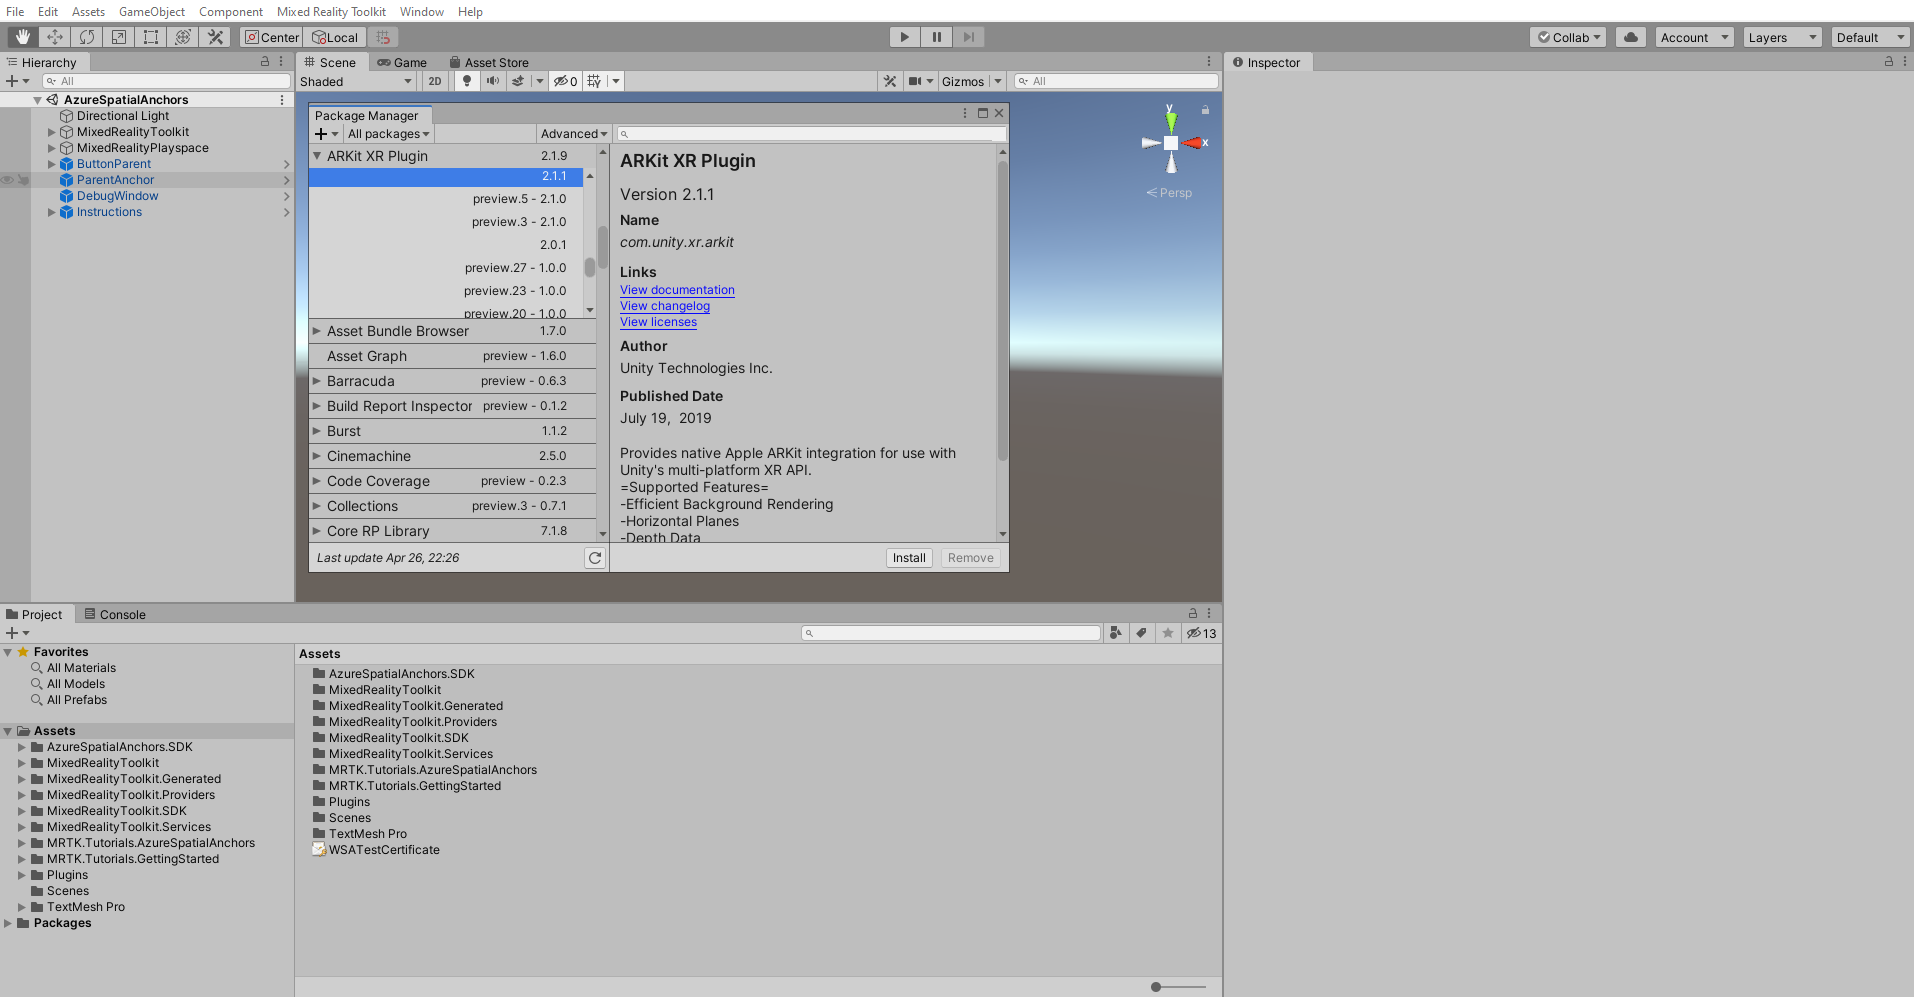
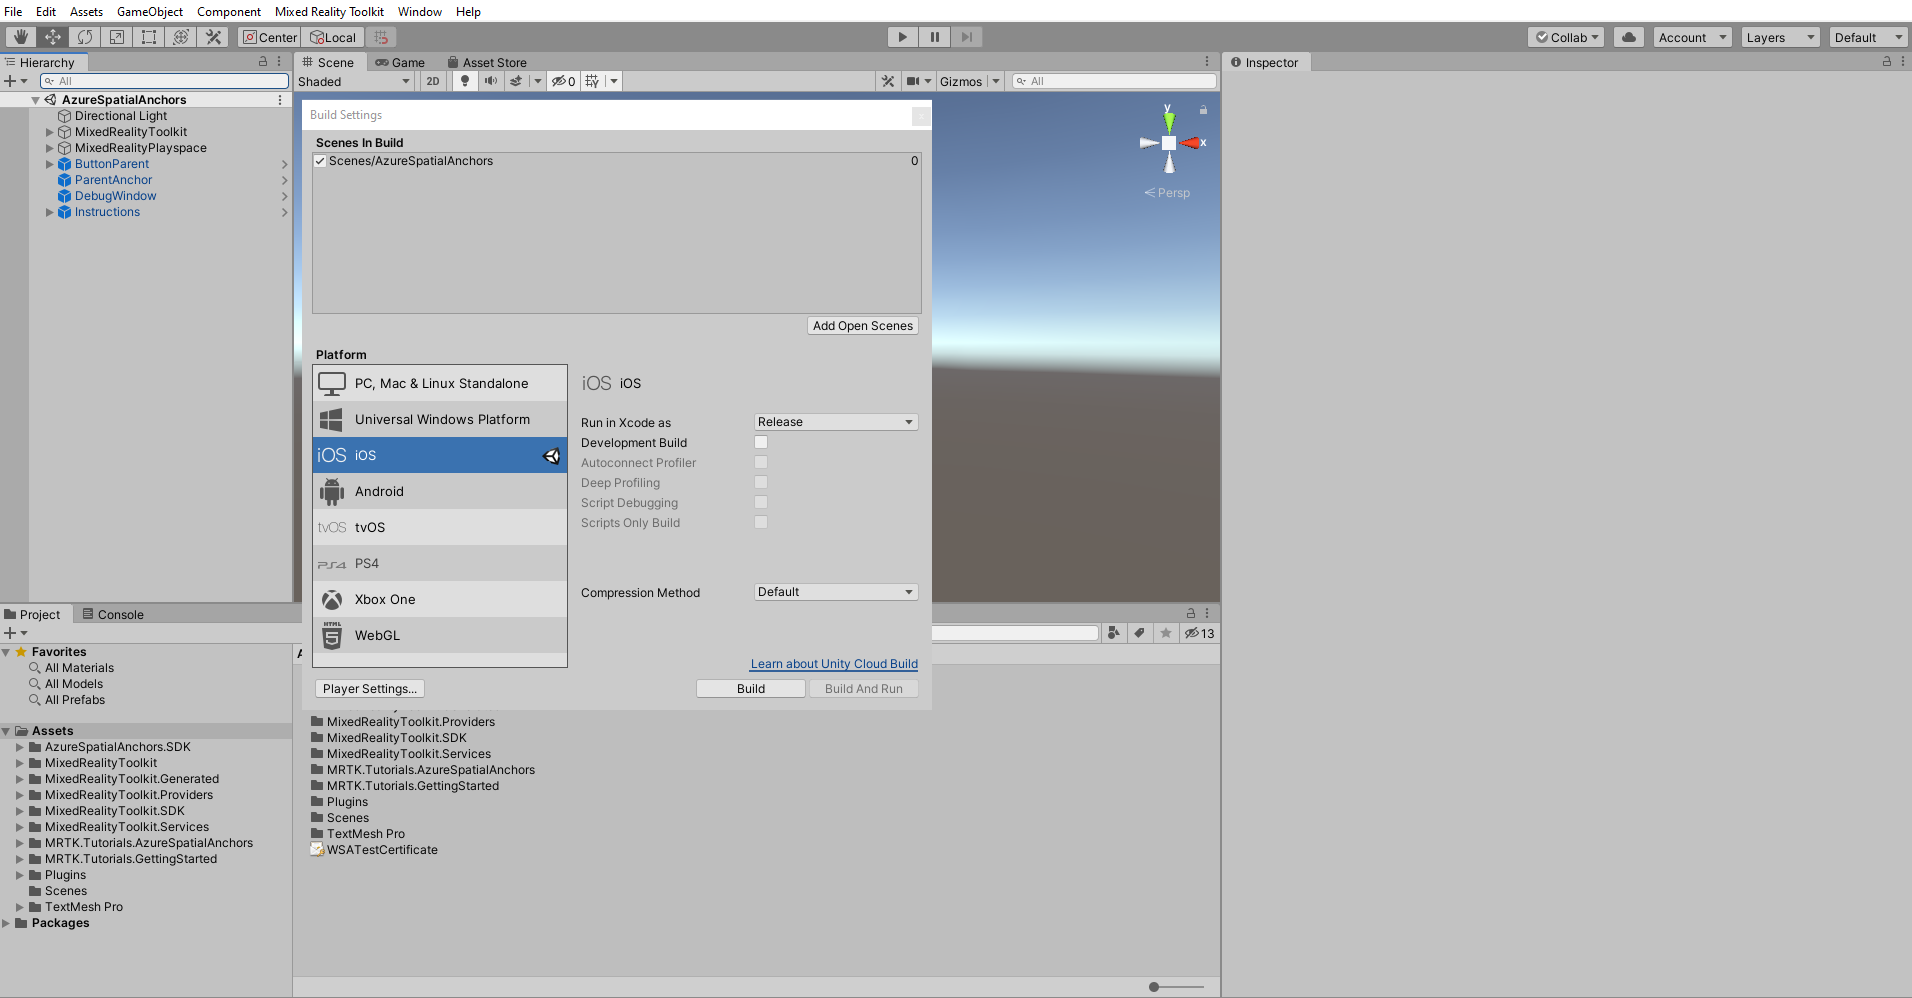
Made corrections as per feedback

Changed region(s): [[0.0, 0.0, 0.648, 0.8706], [0.0, 0.995, 1.0, 1.0], [0.0, 0.5908, 0.1234, 0.9328]]

diff --git a/mixed-reality-docs/mrlearning-asa-ch4.md b/mixed-reality-docs/mrlearning-asa-ch4.md
@@ -18,9 +18,9 @@ In this tutorial, you will learn how to build the existing project to Android an
 * Learn how to build existing project to Android device using Unity's AR Foundation and ARCore XR Plugin.
 * Learn how to build existing project to iOS device using Unity's AR Foundation and ARKit XR Plugin.
 
-## Prerequisites
+> [!NOTE]
 
-To complete this tutorial, make sure you have completed Azure Spatial Anchors Tutorials -> [Getting started with Azure Spatial Anchors](mrlearning-asa-ch1.md)
+> To complete this tutorial, make sure you have completed Azure Spatial Anchors Tutorials -> [Getting started with Azure Spatial Anchors](mrlearning-asa-ch1.md)
 
 ## Adding inbuilt Unity packages
 
@@ -29,73 +29,79 @@ In this section, you will install Unity's inbuilt AR Foundation and ARCore XR pl
 Make sure you install right version of unity packages as listed below:
 
 - **AR Foundation 2.1.4**
+
 - **ARCore XR plugin 2.2.0 preview 2**
+
+- ##### ARKit XR plugin 2.1.1
+
+> [!NOTE]
+> If you are developing this project for Android device then no need to install ARKit XR plugin 2.1.1 package. Similarly, If you are developing this project for iOS device then no need to install ARCore XR plugin 2.1.1.
 
 In the Unity menu, select **Window** > **Package Manager**:
 
-![mrlearning-asa](images/mrlearning-asa/tutorial4-section1-step1.png)
+![mrlearning-asa](images/mrlearning-asa/tutorial4-section1-step1-1.png)
 
-It might take a few seconds before the AR Foundation package appears in the list. Enable preview changes by clicking on Advanced option and select "Show preview packages".
+It might take a few seconds before the AR Foundation package appears in the list. Enable preview changes by clicking on Advanced option and select "**Show preview packages**".
 
-![mrlearning-asa](images/mrlearning-asa/tutorial4-section1-step2.png)
+![mrlearning-asa](images/mrlearning-asa/tutorial4-section1-step1-2.png)
 
 In the Package Manager window, select **AR Foundation**, here you see many version and need to select version 2.1.4 and install the package by clicking the **Install** button:
 
-![mrlearning-asa](images/mrlearning-asa/tutorial4-section1-step3.png)
+![mrlearning-asa](images/mrlearning-asa/tutorial4-section1-step1-3.png)
 
 Similarly follow the same process to import ARCore XR plugin 2.2.0 preview 2. 
 
-![mrlearning-asa](images/mrlearning-asa/tutorial4-section1-step4.png)
-
-## Customize MRTK to support AR Foundation camera
-
-Customize MRTK settings to support ARFoundation by selecting MixedRealitytToolKit in Hierarchy window and select clone button in Mixed Reality ToolKit in inspector window.
-
-![mrlearning-asa](images/mrlearning-asa/tutorial4-section2-step1.png)
-
-After you select clone button, this opens a new Clone Profile window, now you can rename this profile as "UnityARConfigurationProfile" and click Clone button.
-
-![mrlearning-asa](images/mrlearning-asa/tutorial4-section2-step2.png)
-
-Similarly, clone the camera settings in the inspector window and rename the profile name to “UnityARConfigurationProfile” and click on Clone button. Expand the camera setting providers in inspector window and click on **+Add Camera Setting Provider** > expand **New data provider 1**> select Type **None** >select **Microsoft .MixedReality.Toolkit.Experimental.UnityAR**  > Select **UnityARCameraSettings**.
-
-![mrlearning-asa](images/mrlearning-asa/tutorial4-section2-step3.png)
-
-While Selecting MixedRealityToolKit in Hierarchy, attach supporting scripts by clicking on Add component button and type in AR reference Point manager and select the script. 
-
-Adding "AR Reference Point Manager" script will automatically adds "AR session origin" along with it in the the inspector window. After adding the supporting scripts, the inspector window should look like this.
-
-![mrlearning-asa](images/mrlearning-asa/tutorial4-section2-step4.png)
-
-## Build application to Android device
-
-To build this application to Android device, click on File at the top of the window and select Build settings. A new window will be appear on screen, select Android and then click on switch platform. This will take few minutes to switch, after switching to Android platform, click on **Add open scenes** and make sure your current scene is added for building. 
-
-![mrlearning-asa](images/mrlearning-asa/tutorial4-section3-step1.png)
-
-In player settings, expand other setting and select **Vulkan** and remove it by selecting "-" Symbol.
-
-![mrlearning-asa](images/mrlearning-asa/tutorial4-section3-step2.png)
-
-To make changes to Android platform build settings, click on Player settings and expand XR setting, select **Virtual Reality Support**  and click "+" Symbol to add **None** under the default SDK section.
-
-![mrlearning-asa](images/mrlearning-asa/tutorial4-section3-step3.png)
-
-Close player settings, click on Build button to build and save the apk file. 
-
-![mrlearning-asa](images/mrlearning-asa/tutorial4-section3-step4.png)
-
-## Build application to iOS Device
+![mrlearning-asa](images/mrlearning-asa/tutorial4-section1-step1-4.png)
 
 To support iOS devices, you should import **ARKit XR plugin 2.1.1** unity package from the package manager. 
 
-![mrlearning-asa](images/mrlearning-asa/tutorial4-section4-step1.png)
+![mrlearning-asa](images/mrlearning-asa/tutorial4-section1-step1-5.png)
 
-A new window will appear on screen, then select iOS and click on switch platform and keep the same player settings as Android. Once the platform switching is complete, click on Build to build the iOS XCode project.
+## Customize MRTK to support AR Foundation camera
 
-![mrlearning-asa](images/mrlearning-asa/tutorial4-section4-step2.png)
+Customize MRTK settings to support ARFoundation by selecting MixedRealitytToolKit in Hierarchy window and select **clone** button in Mixed Reality ToolKit in inspector window.
 
-Follow this guide to learn how to build this project in to your [iOS device](https://docs.microsoft.com/en-us/azure/spatial-anchors/quickstarts/get-started-unity-ios#export-the-xcode-project)
+![mrlearning-asa](images/mrlearning-asa/tutorial4-section2-step1-1.png)
+
+After you select **clone** button, this opens a new Clone Profile window, now you can rename this profile as "UnityARConfigurationProfile" and click Clone button.
+
+![mrlearning-asa](images/mrlearning-asa/tutorial4-section2-step1-2.png)
+
+Similarly, clone the camera settings in the inspector window and rename the profile name to “UnityARConfigurationProfile” and click on **clone** button. Expand the camera setting providers in inspector window and click on **+Add Camera Setting Provider** > expand **New data provider 1**> select Type **None** >select **Microsoft .MixedReality.Toolkit.Experimental.UnityAR**  > Select **UnityARCameraSettings**.
+
+![mrlearning-asa](images/mrlearning-asa/tutorial4-section2-step1-3.png)
+
+While Selecting MixedRealityToolKit in Hierarchy, attach supporting scripts by clicking on **Add component** button and type in AR reference Point manager and select the script. 
+
+Adding "AR Reference Point Manager" script will automatically adds "AR session origin" along with it in the the inspector window. After adding the supporting scripts, the inspector window should look like this.
+
+![mrlearning-asa](images/mrlearning-asa/tutorial4-section2-step1-4.png)
+
+## Build application to Android device
+
+To build this application to Android device, click on **File** at the top of the window and select **Build settings**. A new window will be appear on screen, select **Android** and then click on **switch platform**. This will take few minutes to switch, after switching to Android platform, click on **Add open scenes** and make sure your current scene is added for building. 
+
+![mrlearning-asa](images/mrlearning-asa/tutorial4-section3-step1-1.png)
+
+In player settings, expand other setting and select **Vulkan** and remove it by selecting "-" Symbol.
+
+![mrlearning-asa](images/mrlearning-asa/tutorial4-section3-step1-2.png)
+
+To make changes to Android platform build settings, click on **Player settings** and expand **XR settings**, select **Virtual Reality Support**  and click "+" Symbol to add **None** under the default SDK section. 
+
+![mrlearning-asa](images/mrlearning-asa/tutorial4-section3-step1-3.png)
+
+Close player settings, select your device in **Run Device** and click **Build And Run**. You'll be asked to save an `.apk` file which you can pick any name for.
+
+![mrlearning-asa](images/mrlearning-asa/tutorial4-section3-step1-4.png)
+
+## Build application to iOS Device
+
+To build this application to iOS device, click on **File** at the top of the window and select **Build settings**. A new window will appear on screen, then select **iOS** and click on **switch platform**. Once the platform switching is complete, click on **Build** to build the iOS XCode project.
+
+![mrlearning-asa](images/mrlearning-asa/tutorial4-section4-step1-1.png)
+
+Follow this guide to learn, how to build this project in to your [iOS device](https://docs.microsoft.com/en-us/azure/spatial-anchors/quickstarts/get-started-unity-ios#export-the-xcode-project)
 
 ## Congratulations
 

diff --git a/mixed-reality-docs/mrlearning-asa-ch1.md b/mixed-reality-docs/mrlearning-asa-ch1.md
@@ -21,6 +21,8 @@ In the second tutorial, [Saving, retrieving, and sharing Azure Spatial Anchors](
 
 In the third tutorial, [Displaying Azure Spatial Anchor feedback](mrlearning-asa-ch3.md), you will learn how to provide users with feedback about anchor events and statuses when using Azure Spatial Anchors.
 
+In the fourth tutorial, [Azure Spatial Anchors for Android and iOS](mrlearning-asa-ch4.md), you will learn how to build and deploy this project for Android and iOS devices.
+
 ## Objectives
 
 * Learn the fundamentals of developing with Azure Spatial Anchors for HoloLens 2

diff --git a/mixed-reality-docs/mrlearning-asa-ch3.md b/mixed-reality-docs/mrlearning-asa-ch3.md
@@ -52,3 +52,5 @@ Assign the **Feedback** object itself to the **Anchor Feedback Script (Script)**
 ## Congratulations
 
 In this tutorial, you learned how to create a UI panel to display the current status of the Azure Spatial Anchor experience for providing users with real-time feedback.
+
+[Next Lesson: 4. Azure Spatial Anchors for Android and iOS](mrlearning-asa-ch4.md)
